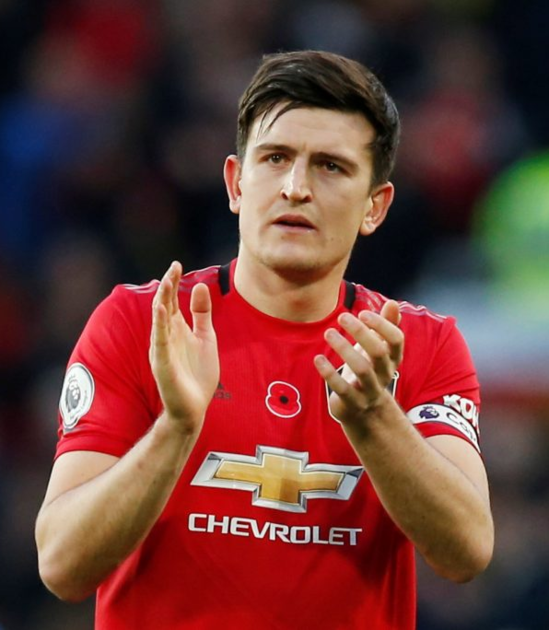
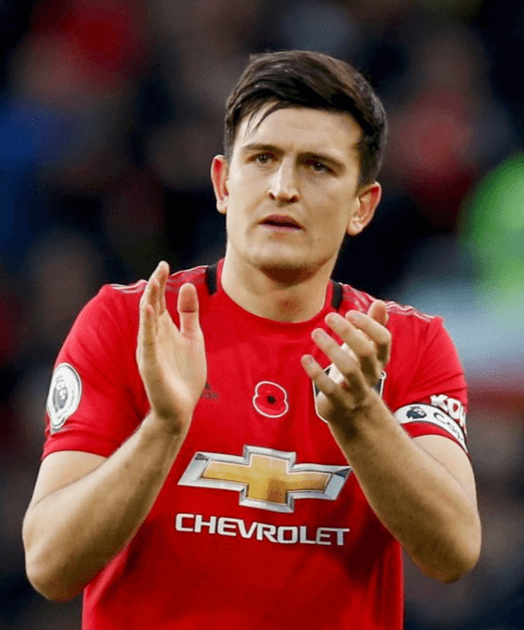
Resized and compressed images.

diff --git a/components/PlayersCard.js b/components/PlayersCard.js
@@ -11,7 +11,7 @@ const PlayersCard = props => {
       <div tw="bg-white p-1 rounded m-auto h-48 w-full sm:h-56 md:h-64 lg:h-72">
         <div>
           <img
-            tw="h-40 sm:h-48 md:h-56 lg:h-64 rounded object-cover"
+            tw="h-40 sm:h-48 md:h-56 lg:h-64 mx-auto rounded object-cover"
             src={require(`../public/images/players/${player1Img}.png`)}
           />
         </div>
@@ -22,7 +22,7 @@ const PlayersCard = props => {
       <div tw="bg-white p-1 rounded m-auto h-48 w-full sm:h-56 md:h-64 lg:h-72">
         <div>
           <img
-            tw="h-40 sm:h-48 md:h-56 lg:h-64 rounded object-cover"
+            tw="h-40 sm:h-48 md:h-56 lg:h-64 mx-auto rounded object-cover"
             src={require(`../public/images/players/${player2Img}.png`)}
           />
         </div>
